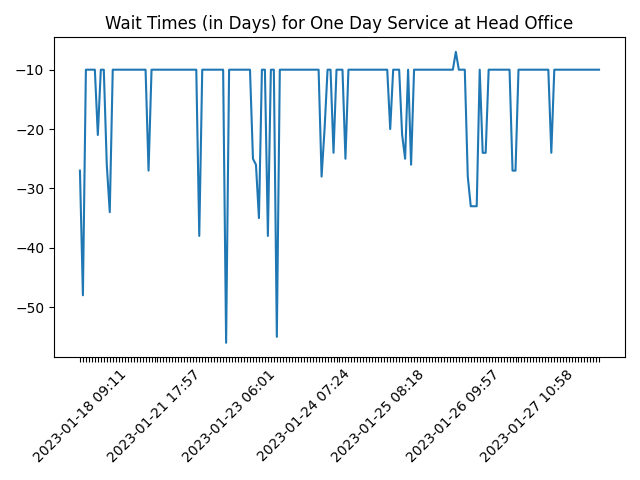
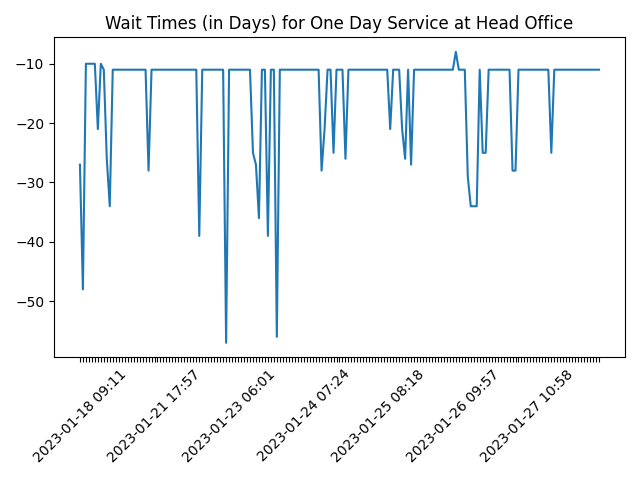
Updated data Tue Mar 21 06:29:54 UTC 2023

diff --git a/README.md b/README.md
@@ -1,5 +1,5 @@
 # Passport Application Reservation System - Availability Report
 
-*As of March 21, 2023 (06:11 AM)*
+*As of March 21, 2023 (11:59 AM)*
 
 Data Source: [Passport Application Reservation System](https://eservices.immigration.gov.lk:8443/appointment/pages/reservationApplication.xhtml)

diff --git a/summary.md b/summary.md
@@ -2,7 +2,7 @@
 
 Of the data from the Passport Application Reservation System of the Sri Lanka Department of Immigration and Emigration.
 
-*As of 2023-03-21 06:11:37*
+*As of 2023-03-21 11:59:52*
 
 ![Wait Time Chart](summary.wait_time_chart.png)
 
